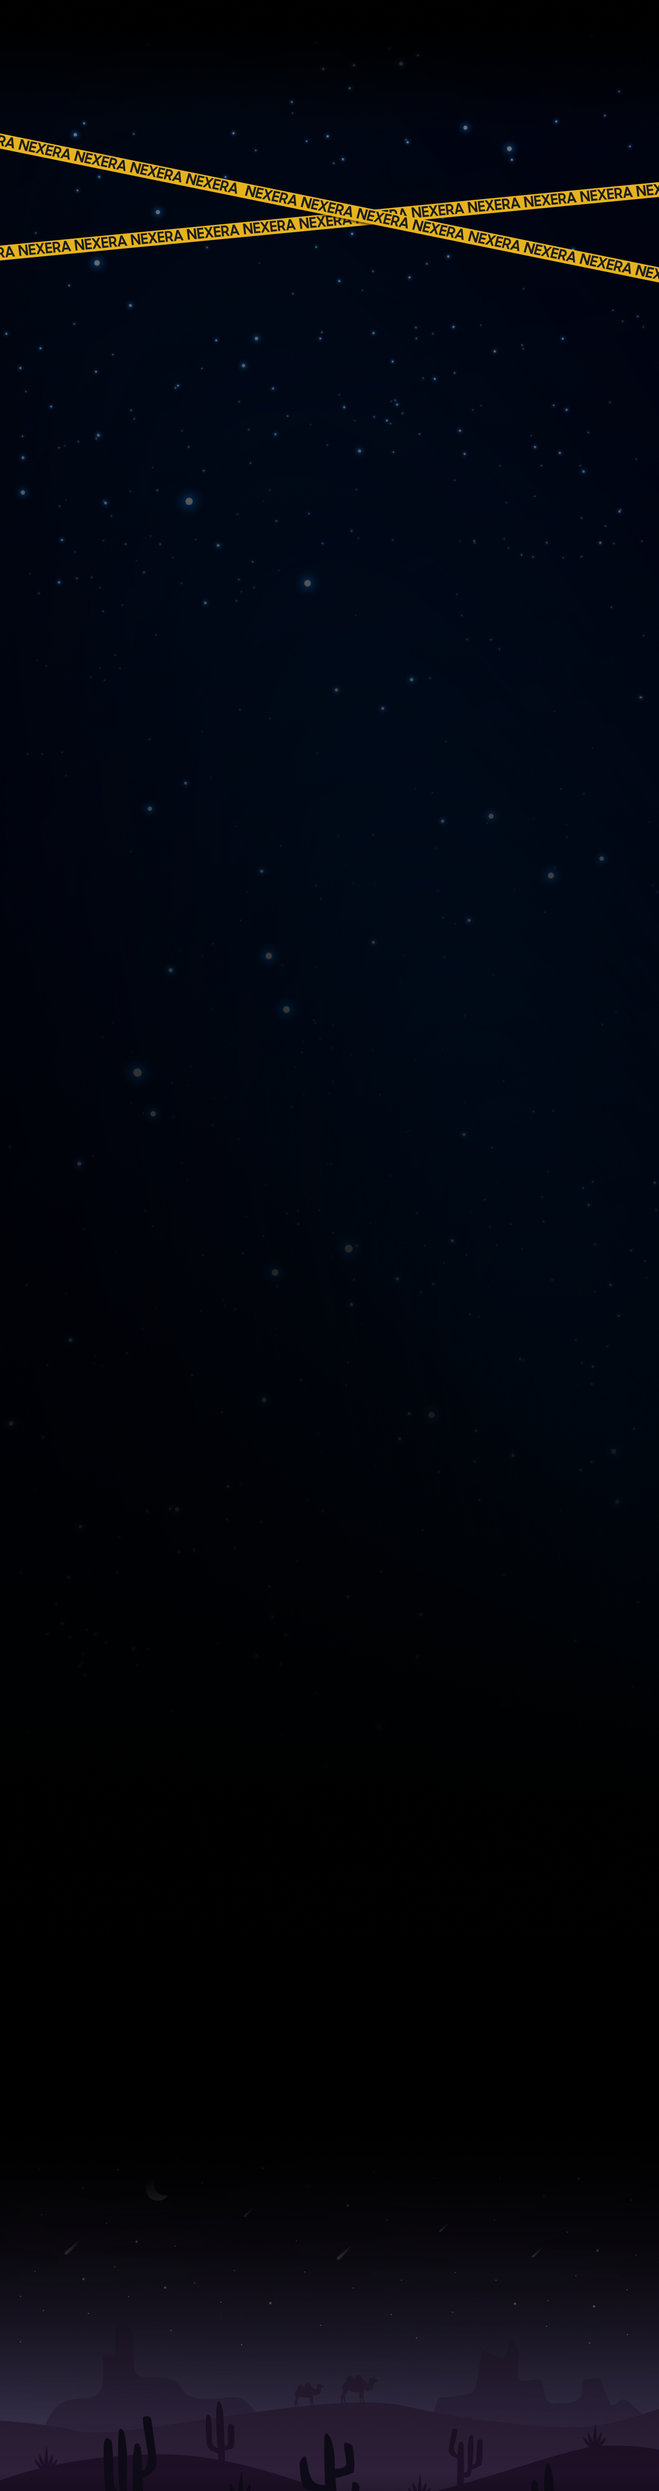
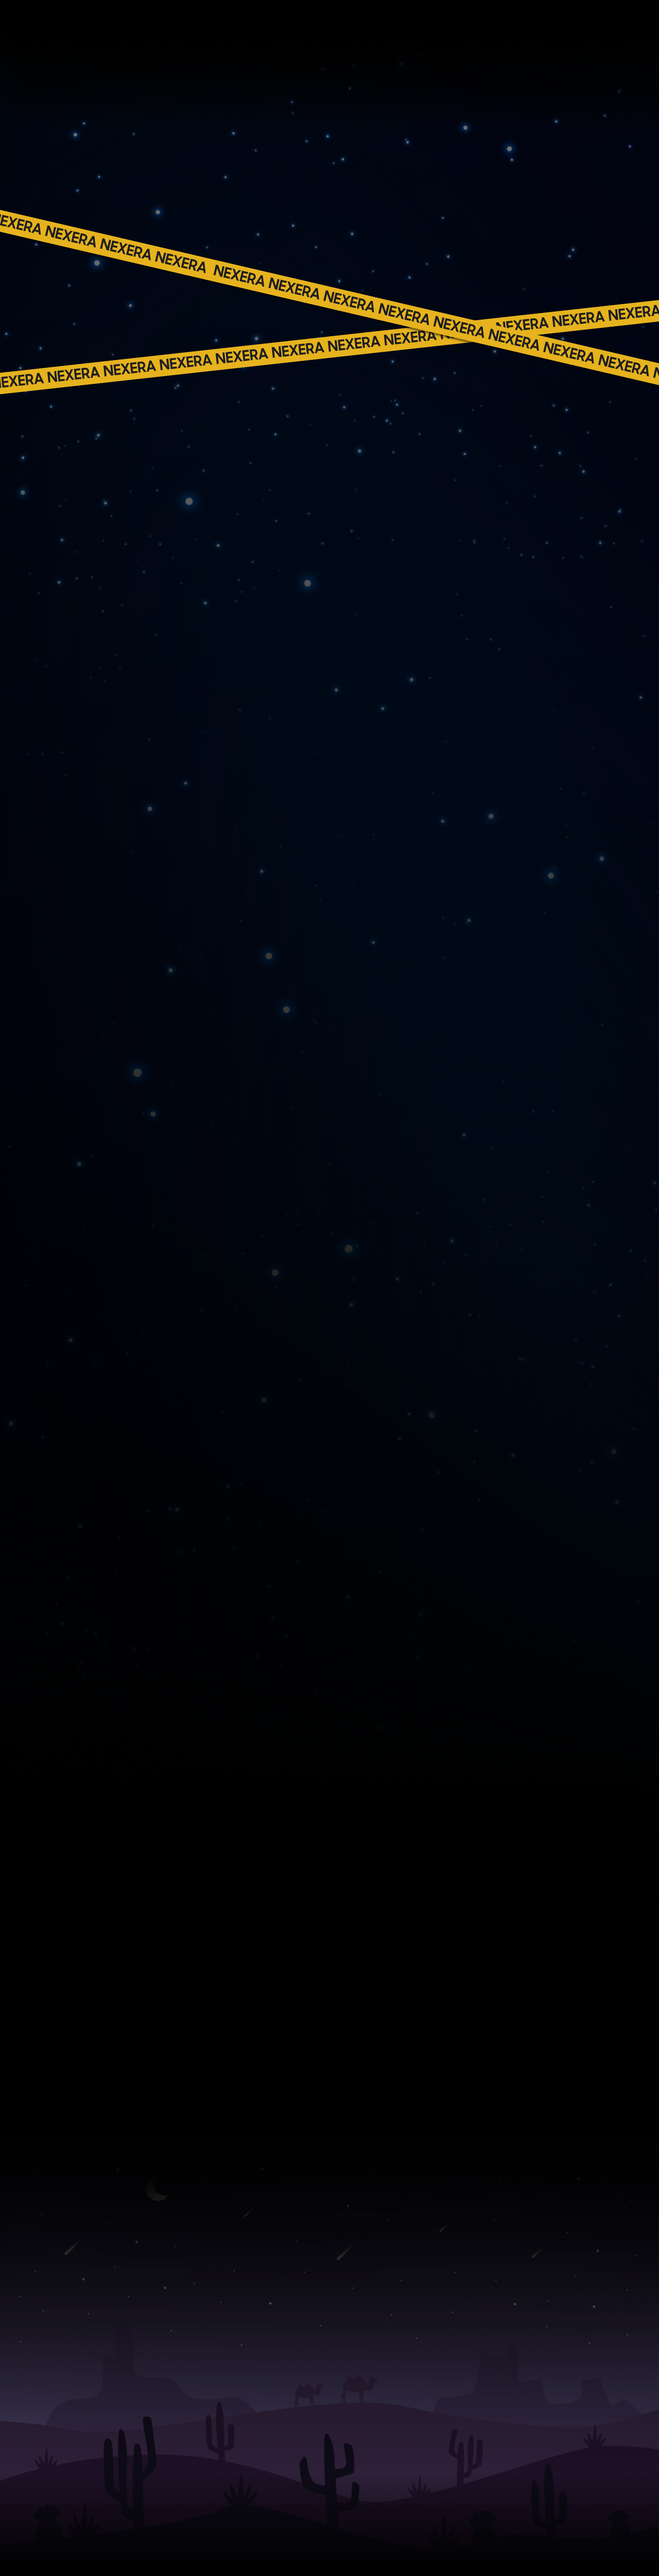
Footer added (intro size bug! not fixed)

Changed region(s): [[0.0, 0.9011, 1.0, 1.0], [0.0, 0.0311, 1.0, 0.1554], [0.2812, 0.1864, 0.3125, 0.2175]]

diff --git a/src/Components/Header.jsx b/src/Components/Header.jsx
@@ -1,13 +1,50 @@
 import React from 'react'
 import "./Header.css";
+import text from '../Images/text.png';
+import dictationarySet from '../Images/dictationarySet.png';
 
-function NavBar() {
+function Header() {
   return (
     <div>
-    
+      <div className='intro-content pt-12'>
+        
+<a href="#" id='intro-div' class="block max-w-sm p-6 bg-white border border-gray-200 rounded-lg shadow hover:bg-gray-100 dark:bg-white dark:border-white dark:hover:bg-white">
+<h1 class="mb-2 tracking-tight text-gray-900 dark:text-gray-900">Nexera</h1>
+<div className='intro-button-div content-start'>
+<button class="bg-blue-100 hover:bg-blue-200 text-gray-900 font-bold py-2 px-4 m-2 rounded-full">
+  Overview
+</button>
+<button class="bg-blue-100 hover:bg-blue-200 text-gray-900 font-bold py-2 px-4 m-2 rounded-full">
+  Events
+</button>
+<button class="bg-blue-100 hover:bg-blue-200 text-gray-900 font-bold py-2 px-4 m-2 rounded-full">
+  Pre-Events
+</button>
+<button class="bg-blue-100 hover:bg-blue-200 text-gray-900 font-bold py-2 px-4 m-2 rounded-full">
+  T-Shirt
+</button>
+<button class="bg-blue-100 hover:bg-blue-200 text-gray-900 font-bold py-2 px-4 m-2 rounded-full">
+  Contact
+</button>
 
+</div>
+<hr></hr>
+<img src={dictationarySet}></img>
+<p class="font-normal text-gray-900 dark:text-gray-900">1.Department fest of Industrial Engineering branch of College of Engineering Trivandrum. It is an assemblage of industrial engineering and management practitioners spanning Kerala, with future aspirations of nationwide expansion. Facilitating workshops and discussion sessions aimed at broadening horizons, with participation from eminent figures in the industrial realm.<br/><br/>2.Beginning of the next era of industrial engineering branch.</p>
+
+</a>
+
+      </div>
+      <div className='space'>
+
+      </div>
+      <div className='image-div'>
+        <br/>
+        <br/>
+      <img src={text}></img>
+      </div>
     </div>
   )
 }
 
-export default NavBar
+export default Header

diff --git a/src/Components/Footer.jsx b/src/Components/Footer.jsx
@@ -1,9 +1,27 @@
-import React from 'react'
-import './Footer.css'
+import React from 'react';
+import './Footer.css';
+import linkedinIcon from '../Images/linkedinIcon.png';
+import instaIcon from '../Images/instaIcon.png';
+
 function Footer() {
   return (
-    <div>
+    <div className='main-footer'>
+      <div className='footer-left'>
+        <h1 class="">
+          Wish to sponsor us?
+        </h1><br></br>
+        <button class="bg-yellow-400 hover:bg-yellow-500 text-white font-bold py-2 px-5 m-1 rounded-full">
+          <h2>Get in touch</h2>
+        </button>
 
+      </div>x
+      <div className='footer-right'>
+        <h1>
+          Follow us now
+        </h1><br></br>
+        <button class='px-2 float-right'><img src={instaIcon}></img></button>
+        <button class='px-2 float-right'><img src={linkedinIcon}></img></button>
+      </div>
     </div>
   )
 }

diff --git a/src/Components/Header.css b/src/Components/Header.css
@@ -2,5 +2,20 @@
 @tailwind components;
 @tailwind utilities;
 
-
-
+.intro-content{
+        display:flex;
+        justify-content: center;
+        padding-top: 200px;
+}
+#intro-div{
+        
+        
+}
+.image-div{
+        padding-top: 15%;
+        padding-left: 15%;
+}
+h1{
+        font-size: 60px;
+        font-family: 'Segoe UI', Tahoma, Geneva, Verdana, sans-serif;
+}

diff --git a/src/Components/Footer.css b/src/Components/Footer.css
@@ -1,3 +1,20 @@
 @tailwind base;
 @tailwind components;
 @tailwind utilities;
+
+h1{
+        font-size: 45px;
+        font-family: 'Segoe UI', Tahoma, Geneva, Verdana, sans-serif;
+        font-weight: bold;
+}
+h2{
+        font-size:25px;
+}
+.footer-right{
+        float: right;
+        padding-right:15%;
+}
+.footer-left{
+        float: left;
+        padding-left:15% ;
+}

diff --git a/src/App.js b/src/App.js
@@ -1,13 +1,15 @@
 import './App.css';
 import React from 'react';
-import fullBG from './Images/fullBG.png';
+import Header from './Components/Header'
+import Footer from './Components/Footer';
 
 function App() {
   return (
   <div>
+    <Header/>
+    <Footer/>
     
-  
-    </div>
+  </div>
   );
 }
 export default App;

diff --git a/src/index.css b/src/index.css
@@ -7,4 +7,5 @@ body{
         background-position-x: center;
         color: white;
         
+        
 }

diff --git a/src/App.css b/src/App.css
@@ -1,4 +1,4 @@
 body{
         margin: 0%;
-        padding: 0%;
+        padding-bottom: 10%;
 }
